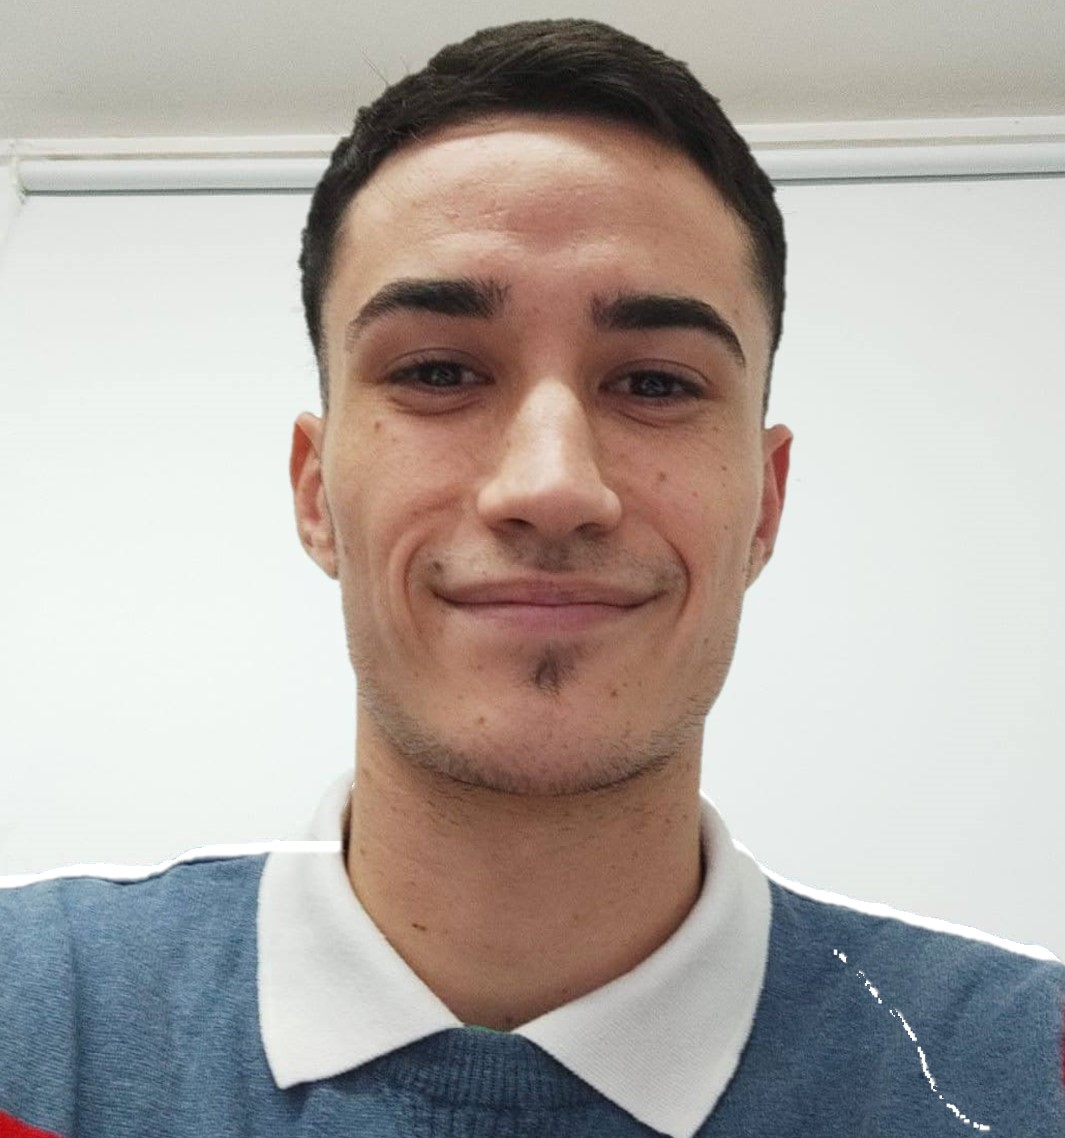
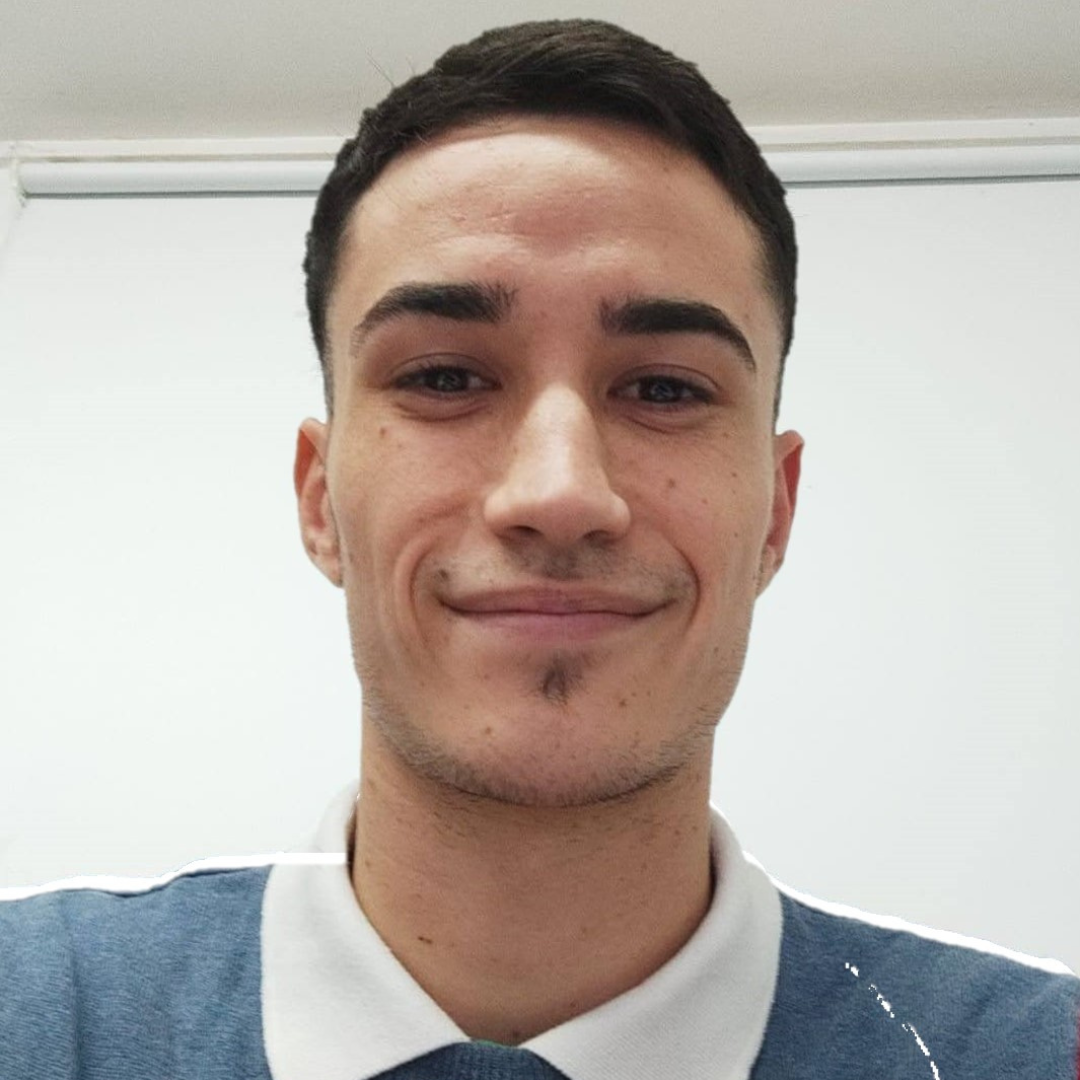
commit - cambio imagen

diff --git a/index.html b/index.html
@@ -100,7 +100,7 @@
                         <img src="imagenes/3.png" alt="">
                     </div>
                 </div>
-                <a href="https://everestfb.netlify.app/" class="btn-1">Visitar sitio</a>
+                <a href="https://everestfb.netlify.app/" target="_blank" class="btn-1">Visitar sitio</a>
             </div>
 
             <div class="swiper-slide">
@@ -117,7 +117,7 @@
                         <img src="imagenes/6.png" alt="">
                     </div>
                 </div>
-                <a href="https://peluqueria-solbot.netlify.app/" class="btn-1">Visitar sitio</a>
+                <a href="https://peluqueria-solbot.netlify.app/" target="_blank" class="btn-1">Visitar sitio</a>
             </div>
 
             <div class="swiper-slide">
@@ -134,7 +134,7 @@
                         <img src="imagenes/1.png" alt="">
                     </div>
                 </div>
-                <a href="http://plantillasolbot.infinityfreeapp.com/?i=1" class="btn-1">Visitar sitio</a>
+                <a href="http://plantillasolbot.infinityfreeapp.com/?i=1" target="_blank" class="btn-1">Visitar sitio</a>
             </div>
 
             <div class="swiper-slide">
@@ -151,7 +151,7 @@
                         <img src="imagenes/2.png" alt="">
                     </div>
                 </div>
-                <a href="https://muebleria-solbot.netlify.app/" class="btn-1">Visitar sitio</a>
+                <a href="https://muebleria-solbot.netlify.app/" target="_blank" class="btn-1">Visitar sitio</a>
             </div>
 
             <div class="swiper-slide">
@@ -168,7 +168,7 @@
                         <img src="imagenes/4.png" alt="">
                     </div>
                 </div>
-                <a href="" class="btn-1">Visitar sitio</a>
+                <a href="https://centrodeportivo-solbot.netlify.app/" target="_blank" class="btn-1">Visitar sitio</a>
             </div>
 
             <div class="swiper-slide">
@@ -185,7 +185,7 @@
                         <img src="imagenes/5.png" alt="">
                     </div>
                 </div>
-                <a href="" class="btn-1">Visitar sitio</a>
+                <a href="https://gimnasio-solbot.netlify.app/" target="_blank" class="btn-1">Visitar sitio</a>
             </div>
             
             <div class="swiper-slide">
@@ -202,7 +202,7 @@
                         <img src="imagenes/7.png" alt="">
                     </div>
                 </div>
-                <a href="" class="btn-1">Visitar sitio</a>
+                <a href="https://radio-solbot.netlify.app/" target="_blank" class="btn-1">Visitar sitio</a>
             </div>
 
             <div class="swiper-slide">
@@ -219,7 +219,7 @@
                         <img src="imagenes/8.png" alt="">
                     </div>
                 </div>
-                <a href="http://tiendasolbot.rf.gd/?i=1" class="btn-1">Visitar sitio</a>
+                <a href="http://tiendasolbot.rf.gd/?i=1" target="_blank" class="btn-1">Visitar sitio</a>
             </div>
 
         </div>

diff --git a/style.css b/style.css
@@ -190,10 +190,11 @@ p {
 }
 
 .personal-1 img {
-    height: 20rem; /* Alto deseado */
-    width: 100%;
+    height: 20rem;  /* Altura fija */
+    width: 100%;    /* Ancho al 100% del contenedor */
     border-radius: 10px;
     margin-bottom: 10px;
+    object-fit: cover; /* Asegura que la imagen cubra el área especificada */
 }
 
 .personal-1 h3 {
